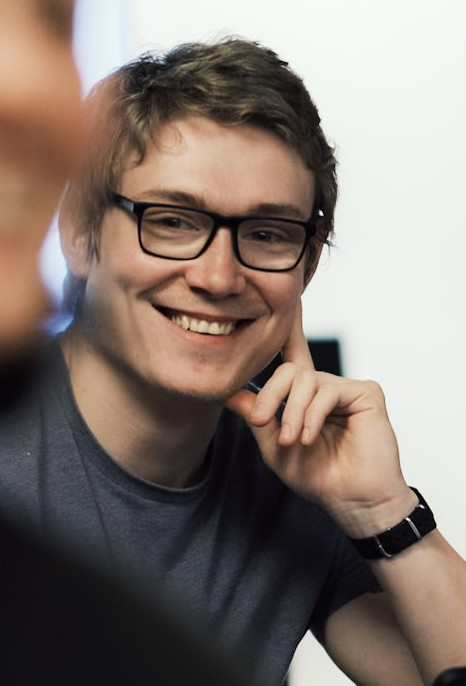
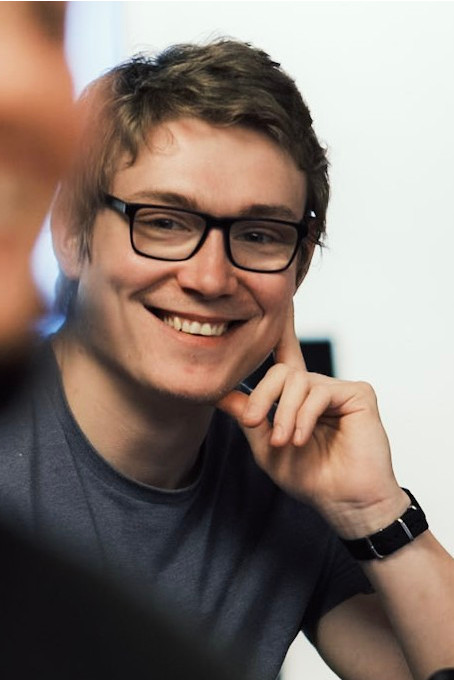
portrait_resize

diff --git a/cv.html b/cv.html
@@ -25,12 +25,12 @@
         <div id="page_content">
             <h3>About the author:</h3>
             <div class="row">
-                <img class="col" src="img/portrait_2024.jpg" alt="Photo of the author, Corey Ratcliffe, taken in 2024." style="max-width:20rem;max-height:20rem;min-width:20rem;min-height:20rem;">
+                <img class="col" src="img/portrait_2024.jpg" alt="Photo of the author, Corey Ratcliffe, taken in 2024." style="max-width:20rem;max-height:30rem;min-width:20rem;min-height:30rem">
                 <p class="col">Corey Ratcliffe is a PhD Student who is currently working towards developing network models of epileptogenesis in neurocysticercosis. Based at the University of Liverpool, collecting data at NIMHANS Bangalore.
                 </br>The intention for this site is threefold; for it to function as a professional-academic portfolio, a resource for those new to modern neuroscience practices and methods, and an introduction to me outside of academia, in the form of a book & music blog. To this end, please feel free to get in touch with me—via my contact address in the page footer—if you'd like any further information regarding my work or my interests. Cheers!
             </div>
 						<div class="row">
-                <img class="col" src="img/cv.png" alt="Photo of the author, Corey Ratcliffe, taken in 2024." style="max-width:20rem;max-height:20rem;min-width:20rem;min-height:20rem;">
+                <img class="col" src="img/CV.png" alt="CV - 05.24" style="width:100%;min-width:100%">
             </div>
         </div>
         <footer>
